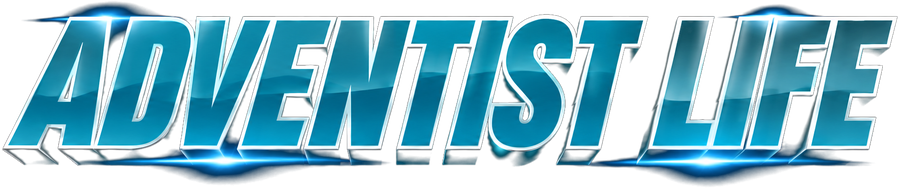
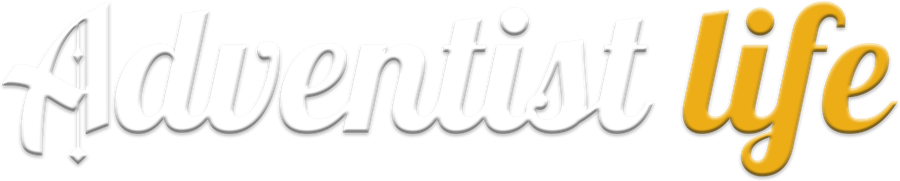
Header: the script title - white 'Adventist', gold 'life'
The new artwork (embossed white script with a gold 'life', already on a
transparent background) in place of the teal 3D one, trimmed to the
lettering. Shape 900x181.

diff --git a/front/streams/components/Header.js b/front/streams/components/Header.js
@@ -21,11 +21,10 @@ const INACTIVE = 'rgba(255,255,255,0.62)';
 // Tab icons: plain white line icons; the open screen's is filled, in the accent.
 const ICON = '#FFFFFF';
 const DEFAULT_AVATAR = require('../assets/avatar-placeholder.jpg');
-// "ADVENTIST LIFE" in 3D teal glass with white edges and blue light flares,
-// cut out of its black background (letters, bevels and flares only - no haze,
-// so no box behind it).
+// "Adventist life": embossed white script with a gold "life", on a transparent
+// background (trimmed to the lettering).
 const TITLE_ART = require('../assets/title-cinematic.png');
-const TITLE_RATIO = 900 / 188;
+const TITLE_RATIO = 900 / 181;
 // How round the header's lower corners are.
 const CURVE = 12;
 

diff --git a/front/streams/components/__tests__/HeaderResponsive.test.js b/front/streams/components/__tests__/HeaderResponsive.test.js
@@ -28,7 +28,7 @@ jest.mock('../../context/AppStatusContext', () => ({ useFeature: () => true }));
 const { default: Header, titleWidthFor } = require('../Header');
 const { FONT_SCALE } = require('../../utils/layout');
 
-const RATIO = 900 / 188;
+const RATIO = 900 / 181;
 const ROW_HEIGHT_WITH_PADDING = 34 + 5 * 2;
 
 describe.each([
